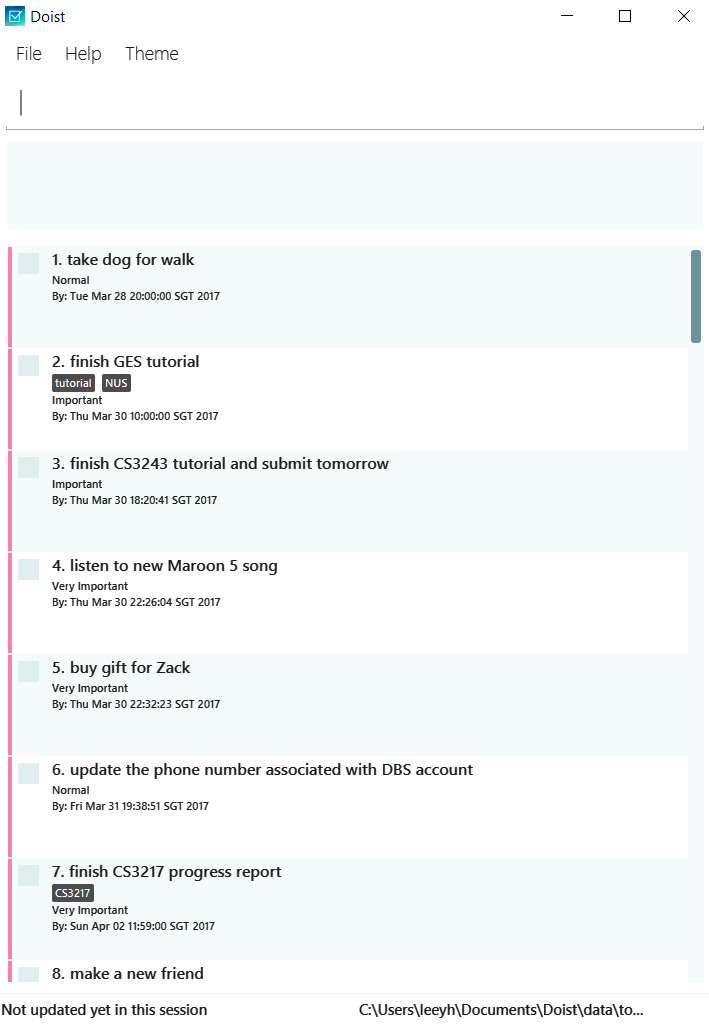
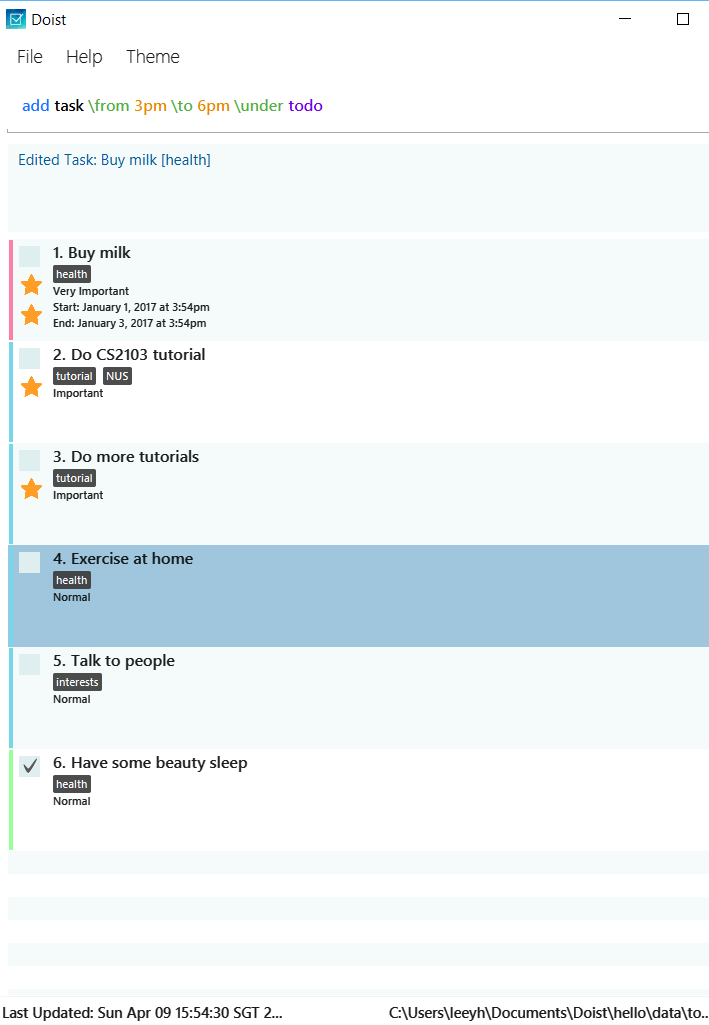
Ui pictures

diff --git a/docs/UserGuide.md b/docs/UserGuide.md
@@ -439,6 +439,9 @@ Click on `Theme` on the menu bar to change the look and feel of Doist! For now, 
 <img src="images/changingtheme.png" width="300"> <br>
 *Figure 3.13.1: Changing the theme* <br>
 
+<img src="images/Ui2.png" width="500"> <br>
+*Figure 3.13.2: Doist Dark Theme* <br>
+
 ### 3.14 Saving the data
 
 Doist will automatically save! There is no need to save manually.
